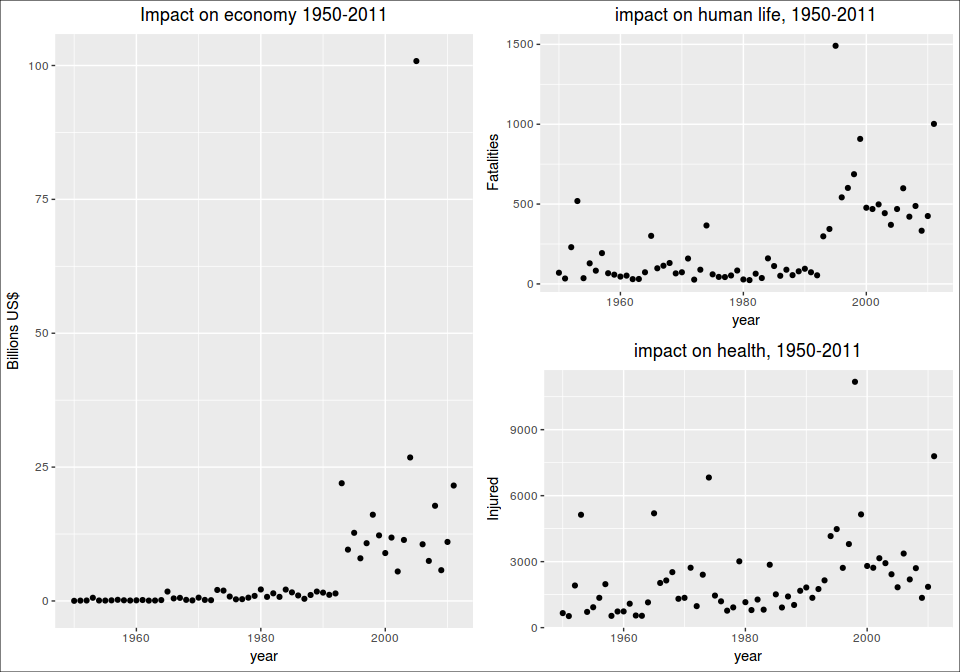
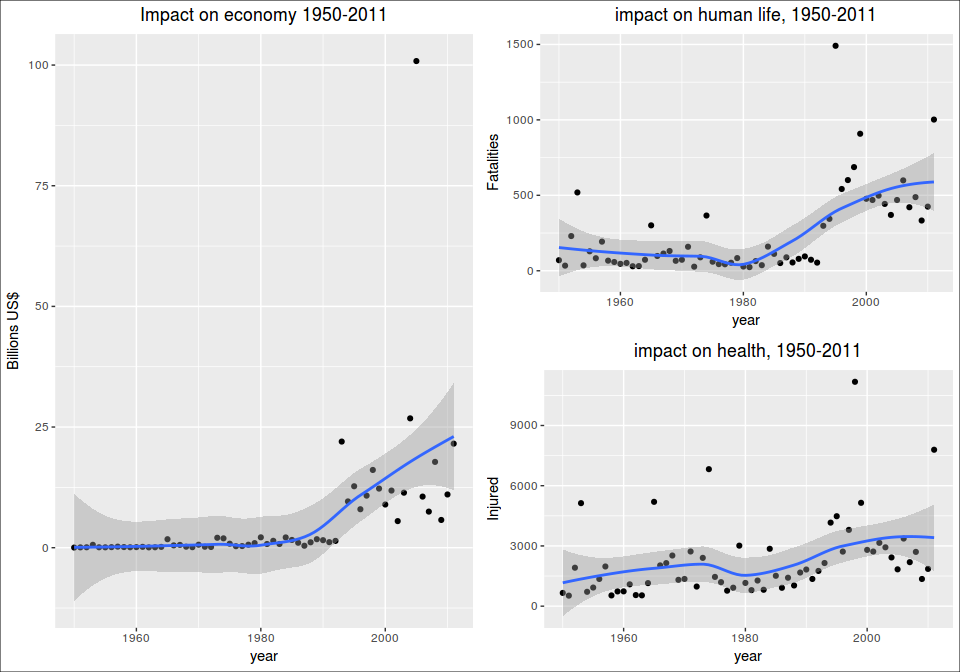
add geom_smooth()

diff --git a/inst/notebooks/01-main.md b/inst/notebooks/01-main.md
@@ -662,18 +662,21 @@ load(paste(project.data, "byYearSummary.rda", sep = "/"))
 
 q1 <- ggplot(byYearSummary, aes(x = year, y = damage.bb)) +
   geom_point() + 
+  geom_smooth() +
   ggtitle("Impact on economy 1950-2011") + 
   labs(y = "Billions US$") +
   theme(plot.title = element_text(hjust=0.5))
 
 q2 <- ggplot(byYearSummary, aes(x = year, y = fatalities)) +
   geom_point() +
+  geom_smooth() +
   ggtitle("impact on human life, 1950-2011") +
   labs(y = "Fatalities") +
     theme(plot.title = element_text(hjust=0.5))
 
 q3 <- ggplot(byYearSummary, aes(x = year, y = injuries)) +
   geom_point() +
+  geom_smooth() +
   ggtitle("impact on health, 1950-2011") +
   labs(y = "Injured") +
     theme(plot.title = element_text(hjust=0.5))
